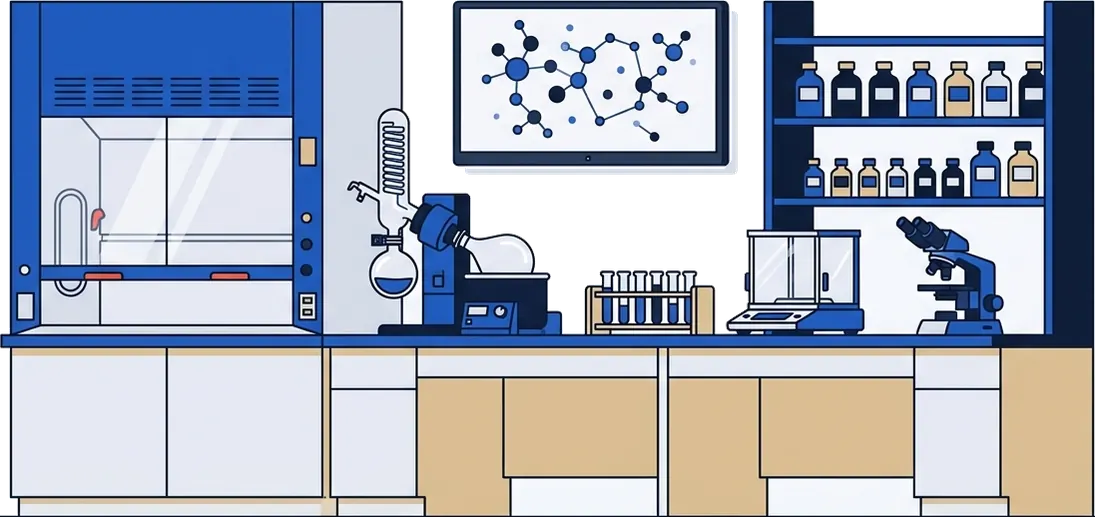
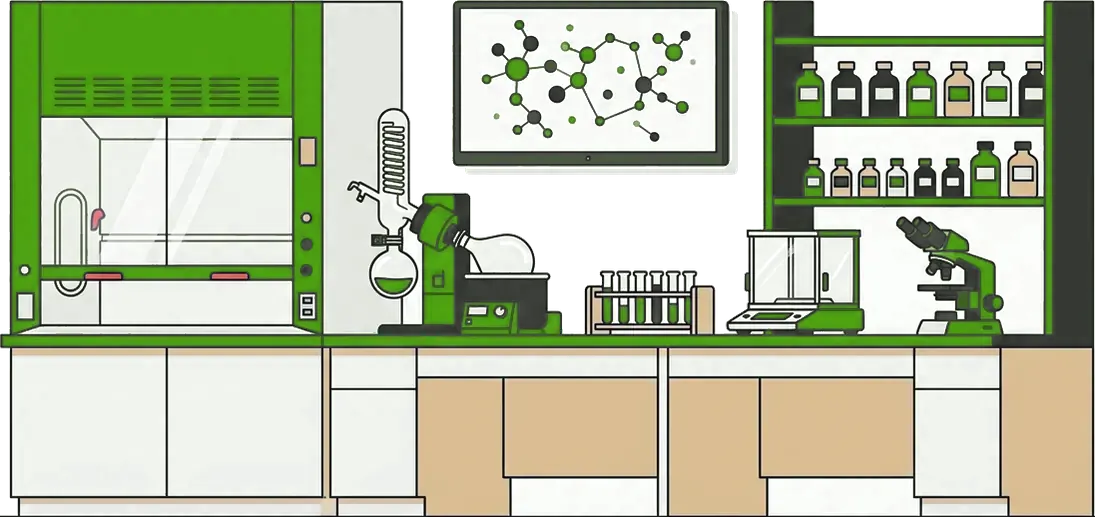
The site moves from cobalt to the GenAI green
The palette in theme.config.js and styles.css: accent #2e7d00 for links and
small text, #419e00 for large display text, a soft fill #b1e882 with
#113b00 text, and neutral greys in place of the blue-tinted ones. Shadows
and overlays lose their navy cast.

The game canvas, the blog covers, the background ink and the share cards
follow (cards regenerated; Courier New Bold is the macOS stand-in for
Liberation Mono so a local run matches the weekly one). The six About walk
scenes are recoloured in place: cobalt fills to the greens, navy line work
to near-black, the pale blue tints to neutral; sand and red untouched.
Nitrogen stays blue in the 3D pocket, as chemistry colours go.

Changed region(s): [[0.0, 0.0, 1.0, 0.6809], [0.3416, 0.2476, 0.3726, 0.3714]]

diff --git a/fitdrug.js b/fitdrug.js
@@ -178,7 +178,7 @@
     }
 
     // ═════════════════════════════════════════════════════════ the map
-    var FOG = [238, 241, 248], LOW = [214, 221, 235], HI = [30, 86, 200];
+    var FOG = [241, 243, 239], LOW = [214, 222, 207], HI = [46, 125, 0];
     function ramp(p) {                       // pIC50 to colour, 4.5 pale, 9.5 cobalt
         var t = clamp((p - 4.5) / 5.0, 0, 1), i, o = [];
         for (i = 0; i < 3; i++) o.push(Math.round(LOW[i] + (HI[i] - LOW[i]) * t));
@@ -759,7 +759,7 @@
         ctx.lineJoin = 'round';
         for (i = 1; i < n; i++) {
             var key = TR.k[i] && TR.k[i - 1];
-            ctx.strokeStyle = key ? 'rgba(30,86,200,0.95)' : 'rgba(126,139,164,0.42)';
+            ctx.strokeStyle = key ? 'rgba(46,125,0,0.95)' : 'rgba(118,126,114,0.42)';
             ctx.lineWidth = (key ? 2.6 : 1.5) * dpr;
             ctx.beginPath();
             ctx.moveTo(pts[i - 1][0], pts[i - 1][1]);
@@ -775,7 +775,7 @@
     // on a canvas. No library, and the data only loads when it is asked for.
     var P3 = null, p3Promise = null, three = null;
     var EL_COL = {
-        C: [26, 36, 58], N: [30, 86, 200], O: [179, 64, 47], S: [143, 106, 43],
+        C: [38, 41, 37], N: [30, 86, 200], O: [179, 64, 47], S: [143, 106, 43],
         F: [47, 125, 91], Cl: [47, 125, 91], Br: [47, 125, 91], P: [143, 106, 43],
         I: [47, 125, 91], Se: [143, 106, 43]
     };
@@ -849,7 +849,7 @@
         var canvas = ui.three.querySelector('canvas');
         var ligs = [];
         if (state === 'simulate') {
-            ligs.push({ part: ligand3(P3.lig.A), col: [30, 86, 200], name: 'pose A' });
+            ligs.push({ part: ligand3(P3.lig.A), col: [46, 125, 0], name: 'pose A' });
             ligs.push({ part: ligand3(P3.lig.B), col: [143, 106, 43], name: 'pose B' });
         } else {
             var id = g && g.compound >= 0 ? rows[g.compound][0] : null;
@@ -877,7 +877,7 @@
             three.ligs = ['A', 'B'].map(function (k) {
                 var src = { e: P3.md[k].e, p: P3.md[k].f[0] };
                 return {
-                    part: ligand3(src), col: k === 'A' ? [30, 86, 200] : [143, 106, 43],
+                    part: ligand3(src), col: k === 'A' ? [46, 125, 0] : [143, 106, 43],
                     name: 'pose ' + k, pose: k
                 };
             });
@@ -954,8 +954,8 @@
             if (it.kind === 'pocket') {
                 var key = P3.keyAtom && P3.keyAtom[it.a];
                 ctx.strokeStyle = key
-                    ? 'rgba(30,86,200,' + (0.34 + depth * 0.52).toFixed(2) + ')'
-                    : 'rgba(128,141,166,' + (0.14 + depth * 0.42).toFixed(2) + ')';
+                    ? 'rgba(46,125,0,' + (0.34 + depth * 0.52).toFixed(2) + ')'
+                    : 'rgba(124,132,120,' + (0.14 + depth * 0.42).toFixed(2) + ')';
                 ctx.lineWidth = (key ? 2.2 : 1.5) * dpr * (0.6 + depth * 0.7);
                 ctx.beginPath();
                 ctx.moveTo(it.p1[0], it.p1[1]);
@@ -983,7 +983,7 @@
             ctx.lineWidth = 3 * dpr;
             ctx.beginPath();
             ctx.moveTo(10 * dpr, yy); ctx.lineTo(26 * dpr, yy); ctx.stroke();
-            ctx.fillStyle = 'rgba(65,77,102,0.95)';
+            ctx.fillStyle = 'rgba(67,71,65,0.95)';
             ctx.fillText(L.name, 32 * dpr, yy + 4 * dpr);
         });
 
@@ -1000,7 +1000,7 @@
             ctx.lineWidth = 3 * dpr;
             ctx.strokeStyle = 'rgba(246,247,251,0.9)';
             ctx.strokeText(r.n, p[0], p[1]);
-            ctx.fillStyle = 'rgba(30,86,200,0.95)';
+            ctx.fillStyle = 'rgba(46,125,0,0.95)';
             ctx.fillText(r.n, p[0], p[1]);
         });
     }

diff --git a/home.css b/home.css
@@ -157,7 +157,7 @@ main.home {
     border: 1px solid var(--border);
     border-radius: var(--radius);
     padding: clamp(14px, 2vw, 20px);
-    box-shadow: 0 28px 56px -38px rgba(24, 42, 82, 0.32);
+    box-shadow: 0 28px 56px -38px rgba(28, 33, 26, 0.30);
 }
 .fit-head {
     display: flex;
@@ -240,7 +240,7 @@ main.home {
 /* the map */
 .fit-pt {
     fill: var(--card);
-    stroke: #8d9cb8;
+    stroke: #8e9888;
     stroke-width: 1.5;
     cursor: pointer;
     transition: r 200ms var(--ease);
@@ -275,11 +275,11 @@ main.home {
 @keyframes fit-pop { from { opacity: 0; transform: scale(0.6); transform-origin: center; } }
 
 /* the pocket */
-.slab { stroke: rgba(110, 126, 158, 0.28); stroke-width: 0.8; }
+.slab { stroke: rgba(112, 122, 106, 0.28); stroke-width: 0.8; }
 .slab.s0 { fill: var(--bg-deep); }
-.slab.s1 { fill: #d7dfee; }
-.slab.s2 { fill: #c8d2e6; }
-.res-dot { fill: var(--card); stroke: #8d9cb8; stroke-width: 1.2; }
+.slab.s1 { fill: #dbe1d4; }
+.slab.s2 { fill: #ccd5c4; }
+.res-dot { fill: var(--card); stroke: #8e9888; stroke-width: 1.2; }
 .res-dot.key { stroke: var(--accent); stroke-width: 2; }
 .res-label {
     font-family: var(--f-mono);
@@ -291,7 +291,7 @@ main.home {
     stroke-linejoin: round;
 }
 .res-label.key { fill: var(--text); font-size: 10.5px; }
-.fit-ghost line { stroke: #8894ac; stroke-width: 1.6; stroke-dasharray: 3 3; opacity: 0.7; }
+.fit-ghost line { stroke: #8b9586; stroke-width: 1.6; stroke-dasharray: 3 3; opacity: 0.7; }
 .fit-ghost text { display: none; }
 .fit-lig { cursor: grab; touch-action: none; }
 .fit-lig.dragging { cursor: grabbing; }
@@ -352,7 +352,7 @@ main.home {
     width: 96px;
     height: 8px;
     border-radius: 2px;
-    background: linear-gradient(90deg, #d6ddeb, #1e56c8);
+    background: linear-gradient(90deg, #dbe3d3, #2e7d00);
 }
 .fit-key-note { margin-left: auto; }
 
@@ -451,7 +451,7 @@ main.home {
     border: 1px solid var(--border);
     border-radius: var(--radius);
     padding: clamp(14px, 2vw, 20px);
-    box-shadow: 0 28px 56px -38px rgba(24, 42, 82, 0.32);
+    box-shadow: 0 28px 56px -38px rgba(28, 33, 26, 0.30);
 }
 .game-head {
     display: flex;
@@ -882,7 +882,7 @@ main.home {
     border: 0;
     border-radius: 999px;
     cursor: pointer;
-    box-shadow: 0 14px 30px -12px rgba(30, 86, 200, 0.55);
+    box-shadow: 0 14px 30px -12px rgba(46, 125, 0, 0.5);
     transition: transform 160ms var(--ease), background-color 160ms var(--ease);
 }
 .fit-tri {
@@ -933,7 +933,7 @@ main.home {
     border-radius: 2px;
     text-align: left;
     transform: rotate(var(--r, 0deg));
-    box-shadow: 0 10px 20px -12px rgba(24, 42, 82, 0.45), 0 1px 0 rgba(0, 0, 0, 0.04);
+    box-shadow: 0 10px 20px -12px rgba(28, 33, 26, 0.42), 0 1px 0 rgba(0, 0, 0, 0.04);
     pointer-events: auto;
 }
 /* the tape that holds it up */
@@ -1007,10 +1007,10 @@ main.home {
     border: 0;
     border-radius: 3px;
     background: #f7e9a0;
-    box-shadow: 0 40px 80px -30px rgba(24, 42, 82, 0.5);
+    box-shadow: 0 40px 80px -30px rgba(28, 33, 26, 0.48);
     color: #4a3f13;
 }
-.wall-dialog::backdrop { background: rgba(18, 26, 44, 0.34); }
+.wall-dialog::backdrop { background: rgba(24, 28, 22, 0.34); }
 .wall-form { position: relative; padding: 24px 20px 18px; display: grid; gap: 6px; }
 .wall-lab {
     font-family: var(--f-mono);

diff --git a/theme.config.js b/theme.config.js
@@ -29,26 +29,32 @@ window.SITE_CONFIG = {
     // ── Palette ──────────────────────────────────────────────────
     // Hub-assigned color for this researcher. Applied to CSS vars at runtime.
     palette: {
-        name: "cobalt",
+        name: "green",
         // One palette. The site is light only: no dark mode, no toggle.
+        // Green since 2026-10-05, after the GenAI Academy homepage. Neutrals
+        // carry no blue cast so the green sits on plain paper.
         colors: {
-            bg:          "#f6f7fb",
-            bgSoft:      "#eef1f8",
-            bgDeep:      "#e4e9f3",
-            card:        "#ffffff",
-            cardSoft:    "#fafbfe",
-            text:        "#121a2c",
-            textSoft:    "#414d66",
-            muted:       "#6d7990",
-            border:      "#dde3ee",
-            borderS:     "#e8ecf5",
-            accent:      "#1e56c8",      /* cobalt: deep */
-            accentD:     "#17439f",
-            accentBg:    "#e8eefb",
-            accentGlow:  "rgba(30,86,200,0.16)",
-            amber:       "#8f6a2b",
-            amberBg:     "#f6efdf",
-            amberGlow:   "rgba(143,106,43,0.15)"
+            bg:            "#f8f9f7",
+            bgSoft:        "#f1f3ef",
+            bgDeep:        "#e6e9e3",
+            card:          "#ffffff",
+            cardSoft:      "#fbfcfa",
+            text:          "#1e1f1e",
+            textSoft:      "#434741",
+            muted:         "#5f665c",
+            border:        "#dfe3db",
+            borderS:       "#ebeee8",
+            accent:        "#2e7d00",    /* links and small text: 5.2 to 1 on white */
+            accentD:       "#236400",
+            accentBg:      "#edf8e1",
+            accentGlow:    "rgba(65,158,0,0.16)",
+            accentDisplay: "#419e00",    /* 24px and larger only: 3.4 to 1 on white */
+            accentSoft:    "#b1e882",    /* soft button fill, with accentInk text */
+            accentInk:     "#113b00",
+            accentLight:   "#6dca2e",
+            amber:         "#8f6a2b",
+            amberBg:       "#f6efdf",
+            amberGlow:     "rgba(143,106,43,0.15)"
         }
     },
 

diff --git a/styles.css b/styles.css
@@ -55,19 +55,21 @@
 
     /* One palette. Light only. theme.config.js restates these at runtime
        so a config edit is still the single source of truth. */
-    --bg: #f6f7fb; --bg-soft: #eef1f8; --bg-deep: #e4e9f3;
-    --card: #ffffff; --card-soft: #fafbfe;
-    --text: #121a2c; --text-soft: #414d66; --muted: #6d7990;
-    --border: #dde3ee; --border-s: #e8ecf5;
-    --accent: #1e56c8; --accent-d: #17439f;
-    --accent-bg: #e8eefb; --accent-glow: rgba(30,86,200,0.16);
+    --bg: #f8f9f7; --bg-soft: #f1f3ef; --bg-deep: #e6e9e3;
+    --card: #ffffff; --card-soft: #fbfcfa;
+    --text: #1e1f1e; --text-soft: #434741; --muted: #5f665c;
+    --border: #dfe3db; --border-s: #ebeee8;
+    --accent: #2e7d00; --accent-d: #236400;
+    --accent-bg: #edf8e1; --accent-glow: rgba(65,158,0,0.16);
+    --accent-display: #419e00; --accent-soft: #b1e882;
+    --accent-ink: #113b00; --accent-light: #6dca2e;
     --amber: #8f6a2b; --amber-bg: #f6efdf; --amber-glow: rgba(143,106,43,0.15);
 
     /* Cards sit one small step off the ground, paper on a desk rather
        than a floating panel. No heavy drop shadows. */
-    --shadow-card:  0 16px 38px -22px rgba(24, 42, 82, 0.16);
-    --shadow-modal: 0 30px 80px -24px rgba(24, 42, 82, 0.22);
-    --overlay:      rgba(28, 36, 56, 0.4);
+    --shadow-card:  0 16px 38px -22px rgba(28, 33, 26, 0.16);
+    --shadow-modal: 0 30px 80px -24px rgba(28, 33, 26, 0.22);
+    --overlay:      rgba(24, 28, 22, 0.4);
 }
 
 *, *::before, *::after { margin: 0; padding: 0; box-sizing: border-box; }
@@ -165,7 +167,7 @@ html.bg-live body::before { visibility: hidden; }
 }
 .bg-mol path {
     fill: none;
-    stroke: #121a2c;
+    stroke: #1e1f1e;
     stroke-width: 2.6;
     stroke-linecap: round;
     stroke-linejoin: round;

diff --git a/blog.css b/blog.css
@@ -98,13 +98,13 @@
     z-index: 2;
 }
 /* Duotones: ink navy family + one gold + one rose. No purple, no teal. */
-.blog-cover--phd      { background: linear-gradient(135deg, #14305e 0%, #8ab8ff 100%); }
-.blog-cover--git      { background: linear-gradient(135deg, #1c2634 0%, #8296b4 100%); }
+.blog-cover--phd      { background: linear-gradient(135deg, #1f3d10 0%, #a2eb73 100%); }
+.blog-cover--git      { background: linear-gradient(135deg, #1e231c 0%, #8a9584 100%); }
 .blog-cover--hack     { background: linear-gradient(135deg, #3a2a10 0%, #d7aa66 100%); }
-.blog-cover--ai       { background: linear-gradient(135deg, #0f2140 0%, #5e9eff 100%); }
+.blog-cover--ai       { background: linear-gradient(135deg, #113b00 0%, #6dca2e 100%); }
 .blog-cover--distance { background: linear-gradient(135deg, #33250f 0%, #c19154 100%); }
 .blog-cover--culture  { background: linear-gradient(135deg, #421f2e 0%, #c98aa8 100%); }
-.blog-cover--default  { background: linear-gradient(135deg, #10233f 0%, #5e9eff 100%); }
+.blog-cover--default  { background: linear-gradient(135deg, #1a2e12 0%, #6dca2e 100%); }
 
 .blog-body {
     padding: 1.3rem 1.5rem 1.4rem;

diff --git a/about.html b/about.html
@@ -7,7 +7,7 @@
 <meta name="description" content="About Abdallah Abou Hajal. MSc Pharmaceutical Sciences (Al Ain University, GPA 3.94). Research on cheminformatics, AutoML and large language models for drug discovery. Career timeline and awards, including first place at the Insilico Medicine BindHack hackathon.">
 <meta name="author" content="Abdallah Abou Hajal">
 <meta name="keywords" content="Abdallah Abou Hajal about, AI drug discovery researcher, cheminformatics, MSc Pharmaceutical Sciences, Al Ain University, Scifiniti, BindHack Hackathon, Abu Dhabi researcher">
-<meta name="theme-color" content="#f6f7fb">
+<meta name="theme-color" content="#f8f9f7">
 <meta name="robots" content="index, follow, max-image-preview:large, max-snippet:-1">
 <title>About Abdallah Abou Hajal · AI for drug discovery</title>
 

diff --git a/publications.html b/publications.html
@@ -7,7 +7,7 @@
 <meta name="description" content="Peer-reviewed publications by Abdallah Abou Hajal in AI for drug discovery, cheminformatics, machine learning, and large language models. Synced weekly from OpenAlex and Crossref.">
 <meta name="author" content="Abdallah Abou Hajal">
 <meta name="keywords" content="Abdallah Abou Hajal publications, AI drug discovery papers, cheminformatics publications, JCIM, Expert Opinion on Drug Discovery, Journal of Pharmaceutical Sciences, machine learning aggregation prediction, AutoML drug-drug interactions">
-<meta name="theme-color" content="#f6f7fb">
+<meta name="theme-color" content="#f8f9f7">
 <meta name="robots" content="index, follow, max-image-preview:large, max-snippet:-1">
 <title>Publications · Abdallah Abou Hajal</title>
 

diff --git a/research.html b/research.html
@@ -7,7 +7,7 @@
 <meta name="description" content="What Abdallah Abou Hajal works on: manuscripts under review, published papers on colloidal aggregators, drug-drug interactions and language models in drug discovery, and current work on AI agents and adverse outcome pathway networks.">
 <meta name="author" content="Abdallah Abou Hajal">
 <meta name="keywords" content="Abdallah Abou Hajal research statement, PhD application drug discovery, AI virtual screening, cheminformatics PhD, machine learning toxicology, LLM agents chemistry, AOP networks">
-<meta name="theme-color" content="#f6f7fb">
+<meta name="theme-color" content="#f8f9f7">
 <meta name="robots" content="index, follow, max-image-preview:large, max-snippet:-1">
 <title>What I work on · Abdallah Abou Hajal</title>
 

diff --git a/index.html b/index.html
@@ -8,7 +8,7 @@
 <meta name="author" content="Abdallah Abou Hajal">
 <meta name="application-name" content="Scholarly Bright Minds · Abdallah Abou Hajal">
 <meta name="keywords" content="Abdallah Abou Hajal, AI drug discovery, cheminformatics, machine learning, AutoML, large language models, virtual screening, BAD Molecule Filter, colloidal aggregators, Scifiniti, Al Ain University, Abu Dhabi researcher">
-<meta name="theme-color" content="#f6f7fb">
+<meta name="theme-color" content="#f8f9f7">
 <meta name="robots" content="index, follow, max-image-preview:large, max-snippet:-1">
 <title>Abdallah Abou Hajal · AI for drug discovery researcher</title>
 

diff --git a/journey.css b/journey.css
@@ -49,9 +49,9 @@ body { overflow-x: clip; }
     opacity: 0.85;
 }
 .journey-svg .jearth { fill: #f0ece1; stroke: none; }
-.journey-svg .jwall { fill: #e7ebf3; stroke: none; }
-.journey-svg .jskyline { fill: #e2e7f1; stroke: none; }
-.journey-svg .jsun { fill: #eceff7; stroke: none; }
+.journey-svg .jwall { fill: #e9ebe6; stroke: none; }
+.journey-svg .jskyline { fill: #e3e7df; stroke: none; }
+.journey-svg .jsun { fill: #eef0eb; stroke: none; }
 .journey-svg .jpebble { fill: #e3e0d6; stroke: none; }
 .journey-svg .jtuft { fill: none; stroke: #cfcbbd; stroke-width: 2.4; stroke-linecap: round; }
 .journey-svg .jdust { fill: #cdc8b8; stroke: none; }

diff --git a/contact.html b/contact.html
@@ -7,7 +7,7 @@
 <meta name="description" content="Contact Abdallah Abou Hajal, researcher in AI for drug discovery, Abu Dhabi. Contact form, direct email, CV download. Replies usually within 48 hours.">
 <meta name="author" content="Abdallah Abou Hajal">
 <meta name="keywords" content="Abdallah Abou Hajal contact, PhD supervisor enquiry, drug discovery collaboration, AI researcher Abu Dhabi, computational chemistry contact">
-<meta name="theme-color" content="#f6f7fb">
+<meta name="theme-color" content="#f8f9f7">
 <meta name="robots" content="index, follow, max-image-preview:large, max-snippet:-1">
 <title>Contact Abdallah Abou Hajal</title>
 

diff --git a/blog-post-4.html b/blog-post-4.html
@@ -4,7 +4,7 @@
 <meta charset="UTF-8">
 <meta name="viewport" content="width=device-width, initial-scale=1.0">
 <script>document.documentElement.classList.add('js')</script>
-<meta name="theme-color" content="#f6f7fb">
+<meta name="theme-color" content="#f8f9f7">
 <meta name="description" content="What our Expert Opinion on Drug Discovery report found about GitHub use in drug discovery, and the checks I run on a repository before I rely on it.">
 <title>Reading a drug discovery repo before you trust it · Abdallah Abou Hajal</title>
 <link rel="canonical" href="https://scholarlybrightminds.github.io/abdallahabouhajal/blog-post-4.html">
